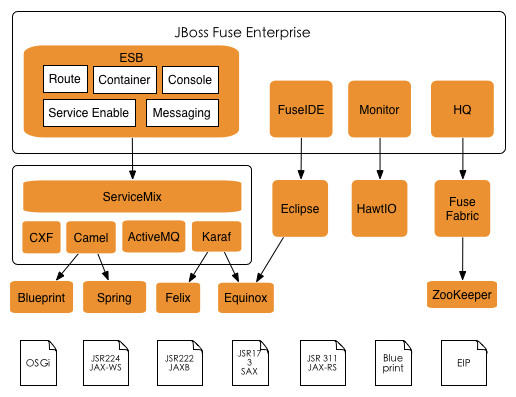
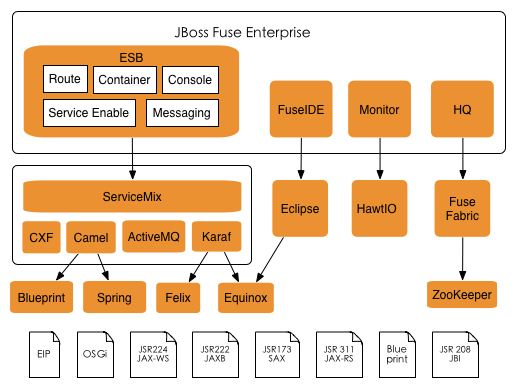
add JBI in about_FUSE

diff --git a/_posts/ea/2014-01-20-about_fuse_esb.md b/_posts/ea/2014-01-20-about_fuse_esb.md
@@ -188,3 +188,31 @@ OSGi R4.2对Blueprint进行了标准化。
 
 ## JBI(TODO)
 
+[JSR 208: JBI(Java Business Integration)](https://jcp.org/en/jsr/detail?id=208)是一种SOA的组件整合标准模型。
+
+SOA在Java领域有两套标准：
+
+- 商业的SCA和SDO标准，由IBM和BEA等公司推出。其中SCA实现了业务组件和传输协议的分离，可以处理各种平台组件的集成；SDO可以的自由读取各种不同数据源的数据。
+- JSR组织的JBI标准，由SUN最早推出，但是没有得到BEA和IBM的承认。JBI只关注Java组件的集成。
+
+
+JBI容器由三部分组成：
+
+![](/images/fuse/jbi_3_parts.gif)
+
+- BC(Binding Components)
+ 
+  绑定组件用于接收各种不同传输协议的请求。可以细分为接收BC和发送BC：接收BC主要负责发送请求和接收响应，发送BC主要用来调用外部的服务。
+
+- SE(Service Engines)
+
+  服务引擎处理JBI容器内部的消息。JBI容器通常在接收到消息后，需要对请求的消息做一些“处理”，然后再调用外部服务的提供者。根据功能的不同，将SE组件分为以下三种类型：
+
+  + Transform SE：处理各种传输协议和格式变化
+  + BPEL SE：将Web Service进行流程编排
+  + Rules SE：按照规则将各种服务进行集成
+  
+- NMB(Normalized Message Router)
+
+  规格化消息路由器是JBI内部消息系统的核心，所有的组建之间不能交换消息，只能通过NMR来传递。
+  
